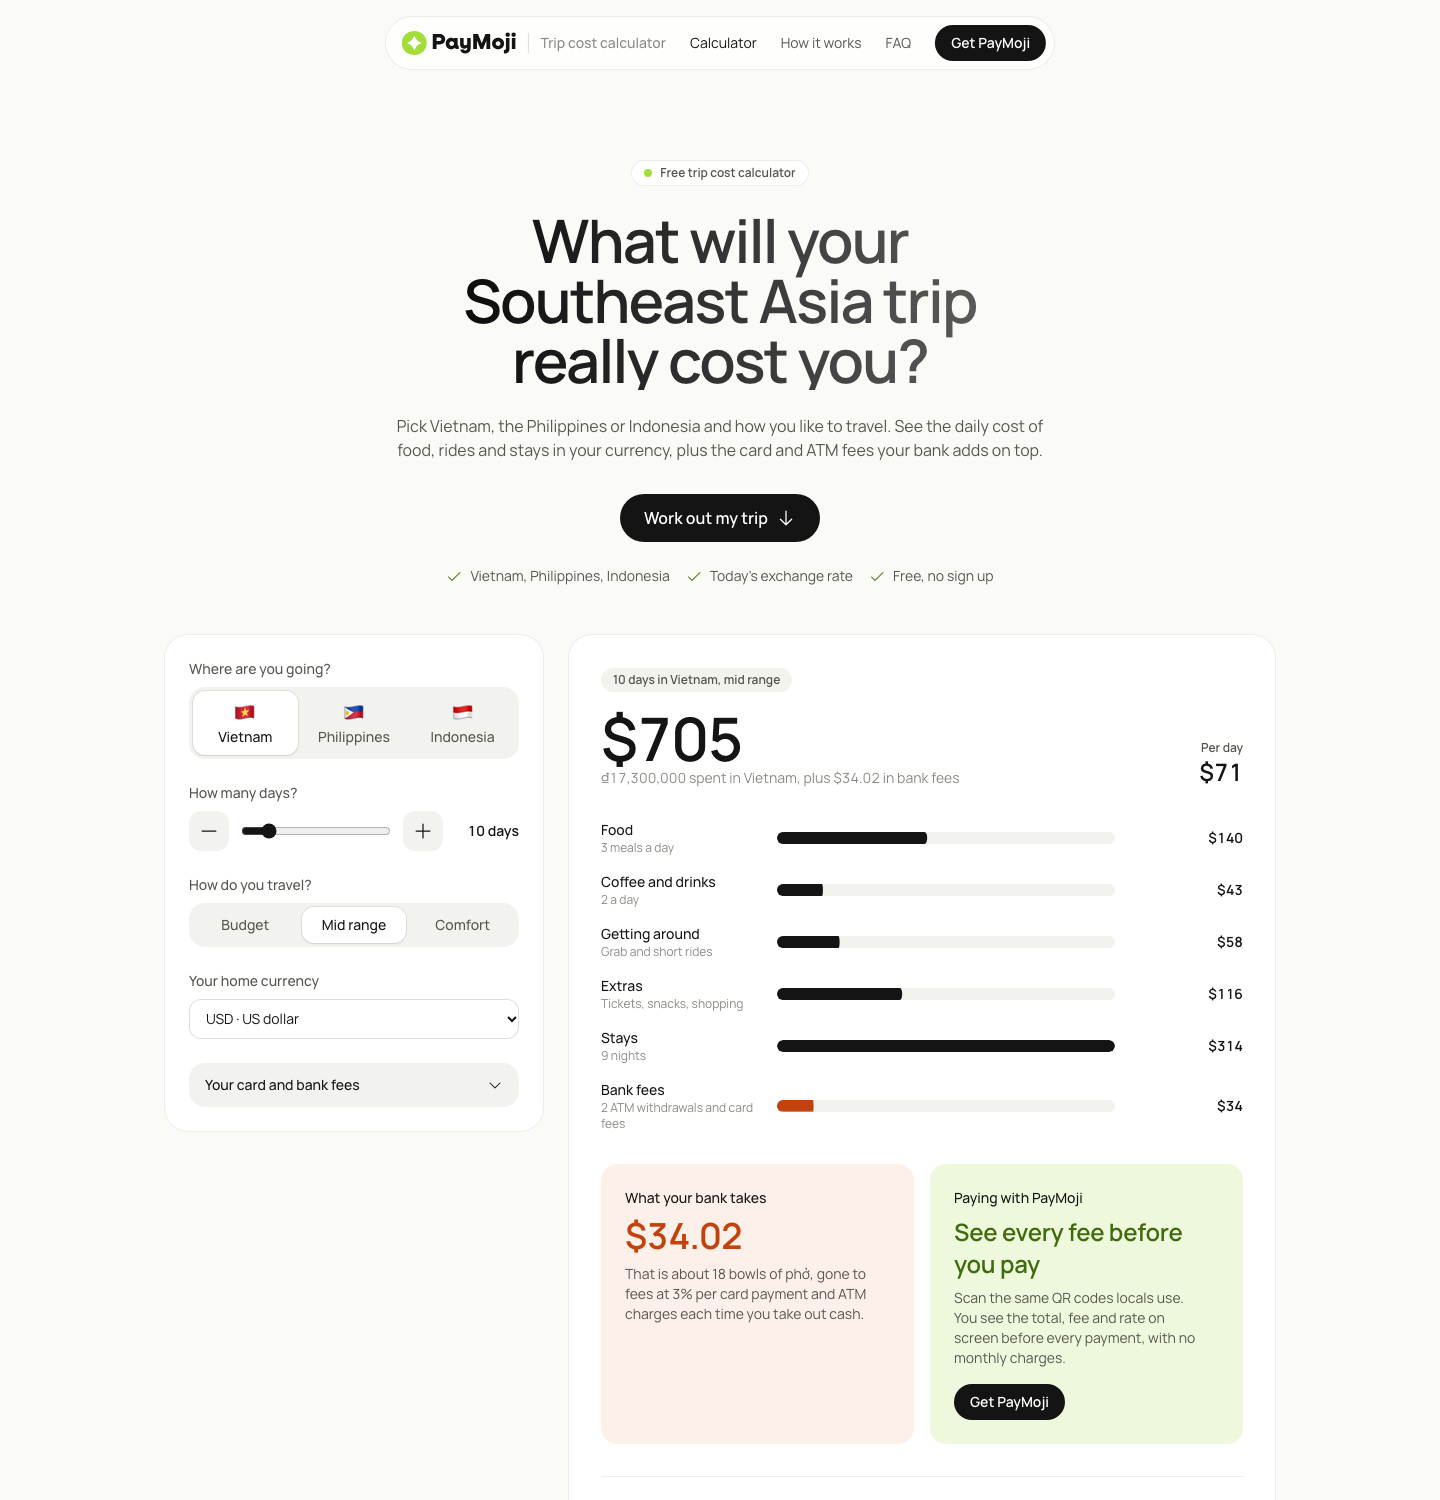
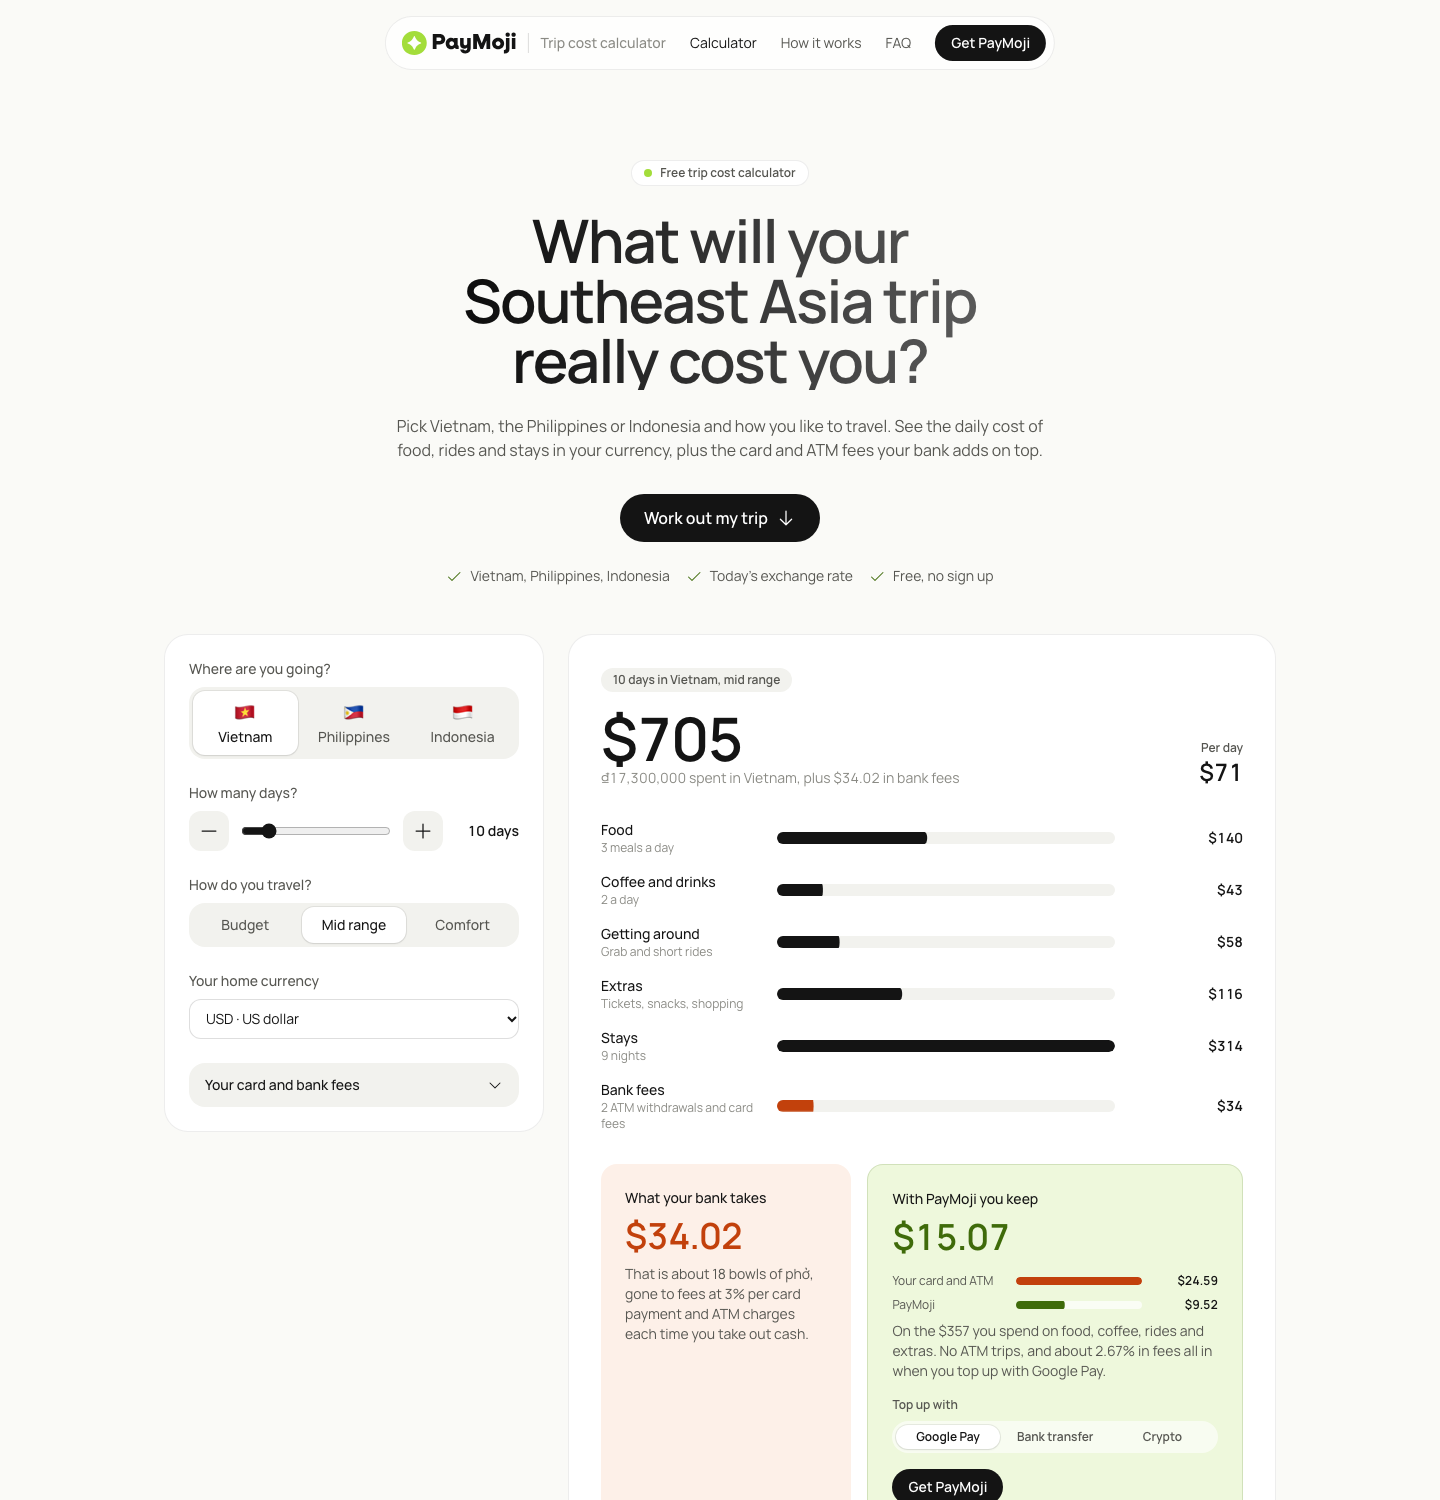
Add real PayMoji fees and the You keep comparison
Fees from the PayMoji team: 0.9% provider fee per payment, top up 1.75% with Google Pay, up to 2% by bank transfer, free with crypto. The result now compares bank fees with PayMoji on the same everyday spending, with a top up method switch and a new FAQ answer.

Changed region(s): [[0.4375, 0.7667, 0.875, 1.0]]

diff --git a/index.html b/index.html
@@ -23,7 +23,7 @@
 <link rel="preconnect" href="https://fonts.gstatic.com" crossorigin>
 <link rel="stylesheet" href="https://fonts.googleapis.com/css2?family=Manrope:wght@400;500;600;700&display=swap">
 <script type="application/ld+json">{"@context": "https://schema.org", "@type": "WebApplication", "name": "PayMoji trip cost calculator", "url": "https://paymoji-trip-cost.netlify.app/", "applicationCategory": "TravelApplication", "operatingSystem": "Any browser", "description": "Free trip cost calculator for Vietnam, the Philippines and Indonesia, including card and ATM fees.", "offers": {"@type": "Offer", "price": "0", "priceCurrency": "USD"}, "publisher": {"@type": "Organization", "name": "PayMoji", "url": "https://www.paymoji.app/"}}</script>
-<script type="application/ld+json">{"@context": "https://schema.org", "@type": "FAQPage", "mainEntity": [{"@type": "Question", "name": "How much does a trip to Vietnam cost per day?", "acceptedAnswer": {"@type": "Answer", "text": "It depends on how you travel. With the prices in this calculator, a budget day comes to about 670,000 VND, a mid range day about 1.8 million VND and a comfort day about 5 million VND, including a place to stay. Pick your days and currency above to see it in your own money."}}, {"@type": "Question", "name": "How much does a trip to the Philippines cost per day?", "acceptedAnswer": {"@type": "Answer", "text": "With the prices in this calculator, a budget day is about 2,600 PHP, a mid range day about 6,400 PHP and a comfort day about 16,200 PHP, including a place to stay. Island hopping tours and flights between islands come on top."}}, {"@type": "Question", "name": "How much does a trip to Bali cost per day?", "acceptedAnswer": {"@type": "Answer", "text": "Choose Indonesia above. With the prices in this calculator, a budget day is about 685,000 IDR, a mid range day about 2 million IDR and a comfort day about 5.5 million IDR, including a place to stay."}}, {"@type": "Question", "name": "What fees does my bank charge when I spend abroad?", "acceptedAnswer": {"@type": "Answer", "text": "Many cards add a foreign transaction fee, often around 3% of every payment. Taking out cash usually costs twice: your own bank's fee for using a foreign ATM, and the local ATM's fee. Some cards charge none of these, so check your bank's fee page and enter your numbers under Your card and bank fees."}}, {"@type": "Question", "name": "How much are ATM fees in Vietnam, the Philippines and Indonesia?", "acceptedAnswer": {"@type": "Answer", "text": "They vary by bank and change often. In the Philippines many ATMs charge foreign cards around 250 PHP per withdrawal. The calculator starts at 50,000 VND in Vietnam and 35,000 IDR in Indonesia, and you can change any of them. The ATM shows its fee on screen before you confirm."}}, {"@type": "Question", "name": "How do people pay in Vietnam, the Philippines and Bali?", "acceptedAnswer": {"@type": "Answer", "text": "Locals pay for a lot of everyday things by scanning a QR code: VietQR in Vietnam, QR Ph in the Philippines and QRIS in Indonesia. Visitors usually cannot use these without a local bank account. PayMoji lets you scan the same codes with money topped up from your own card."}}, {"@type": "Question", "name": "Do I need cash in Southeast Asia?", "acceptedAnswer": {"@type": "Answer", "text": "Some, for small stalls and markets. The more you pay by QR, the less cash you carry and the fewer ATM withdrawals you pay for. Move the cash slider in the calculator to see how much that changes your fees."}}, {"@type": "Question", "name": "Where do the prices come from?", "acceptedAnswer": {"@type": "Answer", "text": "They are estimates of typical prices for each travel style, not live data, so treat the result as a planning number. Exchange rates update every day from a market rate feed."}}, {"@type": "Question", "name": "What is PayMoji?", "acceptedAnswer": {"@type": "Answer", "text": "A travel wallet for Southeast Asia. Top up with your card or Apple Pay, then scan local QR codes to pay in Vietnam, the Philippines and Indonesia. You see the total, fee and rate before every payment, with no monthly charges."}}, {"@type": "Question", "name": "Is this calculator free?", "acceptedAnswer": {"@type": "Answer", "text": "Yes. No sign up and nothing to install. What you enter stays in your browser, and the share link only carries the country, days, travel style and currency."}}]}</script>
+<script type="application/ld+json">{"@context": "https://schema.org", "@type": "FAQPage", "mainEntity": [{"@type": "Question", "name": "How much does a trip to Vietnam cost per day?", "acceptedAnswer": {"@type": "Answer", "text": "It depends on how you travel. With the prices in this calculator, a budget day comes to about 670,000 VND, a mid range day about 1.8 million VND and a comfort day about 5 million VND, including a place to stay. Pick your days and currency above to see it in your own money."}}, {"@type": "Question", "name": "How much does a trip to the Philippines cost per day?", "acceptedAnswer": {"@type": "Answer", "text": "With the prices in this calculator, a budget day is about 2,600 PHP, a mid range day about 6,400 PHP and a comfort day about 16,200 PHP, including a place to stay. Island hopping tours and flights between islands come on top."}}, {"@type": "Question", "name": "How much does a trip to Bali cost per day?", "acceptedAnswer": {"@type": "Answer", "text": "Choose Indonesia above. With the prices in this calculator, a budget day is about 685,000 IDR, a mid range day about 2 million IDR and a comfort day about 5.5 million IDR, including a place to stay."}}, {"@type": "Question", "name": "What fees does my bank charge when I spend abroad?", "acceptedAnswer": {"@type": "Answer", "text": "Many cards add a foreign transaction fee, often around 3% of every payment. Taking out cash usually costs twice: your own bank's fee for using a foreign ATM, and the local ATM's fee. Some cards charge none of these, so check your bank's fee page and enter your numbers under Your card and bank fees."}}, {"@type": "Question", "name": "How much are ATM fees in Vietnam, the Philippines and Indonesia?", "acceptedAnswer": {"@type": "Answer", "text": "They vary by bank and change often. In the Philippines many ATMs charge foreign cards around 250 PHP per withdrawal. The calculator starts at 50,000 VND in Vietnam and 35,000 IDR in Indonesia, and you can change any of them. The ATM shows its fee on screen before you confirm."}}, {"@type": "Question", "name": "How do people pay in Vietnam, the Philippines and Bali?", "acceptedAnswer": {"@type": "Answer", "text": "Locals pay for a lot of everyday things by scanning a QR code: VietQR in Vietnam, QR Ph in the Philippines and QRIS in Indonesia. Visitors usually cannot use these without a local bank account. PayMoji lets you scan the same codes with money topped up from your own card."}}, {"@type": "Question", "name": "Do I need cash in Southeast Asia?", "acceptedAnswer": {"@type": "Answer", "text": "Some, for small stalls and markets. The more you pay by QR, the less cash you carry and the fewer ATM withdrawals you pay for. Move the cash slider in the calculator to see how much that changes your fees."}}, {"@type": "Question", "name": "Where do the prices come from?", "acceptedAnswer": {"@type": "Answer", "text": "They are estimates of typical prices for each travel style, not live data, so treat the result as a planning number. Exchange rates update every day from a market rate feed."}}, {"@type": "Question", "name": "What is PayMoji?", "acceptedAnswer": {"@type": "Answer", "text": "A travel wallet for Southeast Asia. Top up with your card or Apple Pay, then scan local QR codes to pay in Vietnam, the Philippines and Indonesia. You see the total, fee and rate before every payment, with no monthly charges."}}, {"@type": "Question", "name": "What does PayMoji cost?", "acceptedAnswer": {"@type": "Answer", "text": "PayMoji does not charge a fee to pay. The payment provider takes about 0.9% per payment, and topping up costs between nothing and 2% depending on how you add money: free with crypto, 1.75% with Google Pay and about 1 to 2% by bank transfer. There are no ATM fees because you pay by QR, and you see the total before every payment."}}, {"@type": "Question", "name": "Is this calculator free?", "acceptedAnswer": {"@type": "Answer", "text": "Yes. No sign up and nothing to install. What you enter stays in your browser, and the share link only carries the country, days, travel style and currency."}}]}</script>
 
 <style>
 :root{
@@ -156,12 +156,21 @@ details.adv[open] summary svg{transform:rotate(180deg)}
 .row.fee .bar i{background:var(--red)}
 .row .v{text-align:right}
 .row small{display:block;color:var(--ink3)}
-.split{display:grid;grid-template-columns:1fr 1fr;gap:16px}
+.split{display:grid;grid-template-columns:1fr 1.5fr;gap:16px}
 .cut{padding:24px;border-radius:16px;background:var(--red-soft);display:flex;flex-direction:column;gap:8px}
 .cut .heading-3{color:var(--red)}
 .pm{padding:24px;border-radius:16px;background:var(--lime-soft);display:flex;flex-direction:column;gap:8px}
 .pm .heading-3{color:var(--lime-ink)}
 .pm .btn{align-self:flex-start;margin-top:8px}
+.pm{border:1px solid rgba(63,107,10,.16)}
+.vs{display:flex;flex-direction:column;gap:8px;margin-top:8px}
+.vs>div{display:grid;grid-template-columns:112px 1fr 64px;gap:12px;align-items:center}
+.vs span{color:var(--ink2)}
+.vs b{height:8px;border-radius:9999px;background:rgba(255,255,255,.7);overflow:hidden;display:block}
+.vs i{display:block;height:100%;border-radius:9999px;transform-origin:left;transition:transform .5s var(--ease)}
+#vsBank{background:var(--red)}#vsPm{background:var(--lime-ink)}
+.vs em{font-style:normal;text-align:right}
+.seg.mini{background:rgba(255,255,255,.6)}.seg.mini button{padding:4px 8px;font-size:12px;line-height:16px;font-weight:600}
 .foot-actions{display:flex;justify-content:space-between;gap:16px;flex-wrap:wrap;align-items:center;padding-top:24px;border-top:1px solid var(--line)}
 .rate{color:var(--ink3)}
 .sk{border-radius:8px;background:linear-gradient(90deg,var(--sunk),#ECECE7,var(--sunk));background-size:200% 100%;animation:sk 1.2s var(--ease) infinite;color:transparent!important}
@@ -322,9 +331,14 @@ footer a:hover{color:var(--ink)}
           <p class="body-6 muted" id="cutWhy">&nbsp;</p>
         </div>
         <div class="pm">
-          <p class="title-4">Paying with PayMoji</p>
-          <p class="heading-5" id="pmVal" style="color:var(--lime-ink)">See every fee before you pay</p>
-          <p class="body-6 muted" id="pmWhy">Scan the same QR codes locals use. You see the total, fee and rate on screen before every payment, with no monthly charges.</p>
+          <p class="title-4">With PayMoji you keep</p>
+          <p class="heading-3 num" id="pmVal">&nbsp;</p>
+          <div class="vs" aria-hidden="true">
+            <div><span class="caption-5">Your card and ATM</span><b><i id="vsBank"></i></b><em class="caption-3 num" id="vsBankV"></em></div>
+            <div><span class="caption-5">PayMoji</span><b><i id="vsPm"></i></b><em class="caption-3 num" id="vsPmV"></em></div>
+          </div>
+          <p class="body-6 muted" id="pmWhy">&nbsp;</p>
+          <div class="field" style="margin-top:8px"><span class="caption-3 muted" id="lt">Top up with</span><div class="seg mini" role="group" aria-labelledby="lt" id="topup"></div></div>
           <a class="btn pri button-sm" style="padding:8px 16px" href="https://www.paymoji.app/?utm_source=trip_cost_calculator&utm_medium=free_tool" target="_blank" rel="noopener">Get PayMoji</a>
         </div>
       </div>
@@ -364,6 +378,7 @@ footer a:hover{color:var(--ink)}
         <details><summary class="title-2">Do I need cash in Southeast Asia?<i><svg viewBox="0 0 256 256" fill="currentColor"><path d="M224 128a8 8 0 0 1-8 8h-80v80a8 8 0 0 1-16 0v-80H40a8 8 0 0 1 0-16h80V40a8 8 0 0 1 16 0v80h80a8 8 0 0 1 8 8z"/></svg></i></summary><p class="body-3 muted">Some, for small stalls and markets. The more you pay by QR, the less cash you carry and the fewer ATM withdrawals you pay for. Move the cash slider in the calculator to see how much that changes your fees.</p></details>
         <details><summary class="title-2">Where do the prices come from?<i><svg viewBox="0 0 256 256" fill="currentColor"><path d="M224 128a8 8 0 0 1-8 8h-80v80a8 8 0 0 1-16 0v-80H40a8 8 0 0 1 0-16h80V40a8 8 0 0 1 16 0v80h80a8 8 0 0 1 8 8z"/></svg></i></summary><p class="body-3 muted">They are estimates of typical prices for each travel style, not live data, so treat the result as a planning number. Exchange rates update every day from a market rate feed.</p></details>
         <details><summary class="title-2">What is PayMoji?<i><svg viewBox="0 0 256 256" fill="currentColor"><path d="M224 128a8 8 0 0 1-8 8h-80v80a8 8 0 0 1-16 0v-80H40a8 8 0 0 1 0-16h80V40a8 8 0 0 1 16 0v80h80a8 8 0 0 1 8 8z"/></svg></i></summary><p class="body-3 muted">A travel wallet for Southeast Asia. Top up with your card or Apple Pay, then scan local QR codes to pay in Vietnam, the Philippines and Indonesia. You see the total, fee and rate before every payment, with no monthly charges.</p></details>
+        <details><summary class="title-2">What does PayMoji cost?<i><svg viewBox="0 0 256 256" fill="currentColor"><path d="M224 128a8 8 0 0 1-8 8h-80v80a8 8 0 0 1-16 0v-80H40a8 8 0 0 1 0-16h80V40a8 8 0 0 1 16 0v80h80a8 8 0 0 1 8 8z"/></svg></i></summary><p class="body-3 muted">PayMoji does not charge a fee to pay. The payment provider takes about 0.9% per payment, and topping up costs between nothing and 2% depending on how you add money: free with crypto, 1.75% with Google Pay and about 1 to 2% by bank transfer. There are no ATM fees because you pay by QR, and you see the total before every payment.</p></details>
         <details><summary class="title-2">Is this calculator free?<i><svg viewBox="0 0 256 256" fill="currentColor"><path d="M224 128a8 8 0 0 1-8 8h-80v80a8 8 0 0 1-16 0v-80H40a8 8 0 0 1 0-16h80V40a8 8 0 0 1 16 0v80h80a8 8 0 0 1 8 8z"/></svg></i></summary><p class="body-3 muted">Yes. No sign up and nothing to install. What you enter stays in your browser, and the share link only carries the country, days, travel style and currency.</p></details>
       </div>
     </div>
@@ -388,11 +403,14 @@ footer a:hover{color:var(--ink)}
 
 <script>
 /* ---------- settings ----------
-   PAYMOJI: fill these in once the PayMoji team confirms them. While topup_pct and
-   payment_pct are null, the PayMoji box shows the "see it before you pay" message
-   instead of a number. fx_markup_pct is the gap between PayMoji's rate and the
-   market rate (0 if they use the market rate). */
-const PAYMOJI = { topup_pct: null, payment_pct: null, fx_markup_pct: 0 };
+   PayMoji fees, from the PayMoji team (Nov 2026). PayMoji charges nothing per payment;
+   the payment provider takes payment_pct. Top up cost depends on the method; bank transfer
+   is 1 to 2%, so the top of that range is used to stay on the safe side. fx_markup_pct is
+   any gap between PayMoji's rate and the market rate (0 = market rate). */
+const PAYMOJI = {
+  topups: { gpay: { label: "Google Pay", pct: 1.75 }, bank: { label: "Bank transfer", pct: 2 }, crypto: { label: "Crypto", pct: 0 } },
+  payment_pct: 0.9, fx_markup_pct: 0,
+};
 const APP_URL = "https://www.paymoji.app/?utm_source=trip_cost_calculator&utm_medium=free_tool";
 
 /* Daily prices in local currency. Estimates for each travel style; edit freely.
@@ -420,7 +438,7 @@ let RATES = {"USD": 1, "EUR": 0.893426, "GBP": 0.745418, "AUD": 1.434205, "CAD":
 let RATE_NOTE = "Rates from 4 Nov 2026";
 
 const $ = id => document.getElementById(id);
-const S = { c: "vn", d: 10, s: "mid", h: "USD", fx: 3, cash: 60, hatm: 5, latm: null };
+const S = { c: "vn", d: 10, s: "mid", h: "USD", fx: 3, cash: 60, hatm: 5, latm: null, t: "gpay" };
 
 function fmt(v, cur, opts = {}) {
   const zero = ["VND","IDR","KRW","JPY"].includes(cur);
@@ -447,6 +465,8 @@ function writeURL() {
 function buildControls() {
   $("country").innerHTML = Object.entries(COUNTRIES).map(([k, c]) => `<button type="button" class="title-4" data-c="${k}" aria-pressed="false"><span class="flag" aria-hidden="true">${c.flag}</span>${c.name}</button>`).join("");
   $("style").innerHTML = Object.entries(STYLES).map(([k, n]) => `<button type="button" class="title-4" data-s="${k}" aria-pressed="false">${n}</button>`).join("");
+  $("topup").innerHTML = Object.entries(PAYMOJI.topups).map(([k, t]) => `<button type="button" data-t="${k}" aria-pressed="false">${t.label}</button>`).join("");
+  $("topup").addEventListener("click", e => { const b = e.target.closest("[data-t]"); if (!b) return; S.t = b.dataset.t; update(); });
   $("home").innerHTML = Object.entries(HOMES).map(([k, n]) => `<option value="${k}">${k} · ${n}</option>`).join("");
   $("country").addEventListener("click", e => { const b = e.target.closest("[data-c]"); if (!b) return; S.c = b.dataset.c; S.latm = null; $("latm").value = ""; update(); });
   $("style").addEventListener("click", e => { const b = e.target.closest("[data-s]"); if (!b) return; S.s = b.dataset.s; update(); });
@@ -489,12 +509,11 @@ function calc() {
   const homeAtm = withdrawals * S.hatm;                             // in home currency
   const feesHome = conv(fxFee + atmLocal, C.cur, S.h) + homeAtm;
   const tripLocal = ground + stays;
-  let pm = null;
-  if (PAYMOJI.topup_pct !== null && PAYMOJI.payment_pct !== null) {
-    const pct = (1 + PAYMOJI.topup_pct / 100) * (1 + PAYMOJI.payment_pct / 100) * (1 + (PAYMOJI.fx_markup_pct || 0) / 100) - 1;
-    pm = conv(ground * pct, C.cur, S.h);                            // PayMoji covers the QR payments on the ground
-  }
-  return { C, lines, tripLocal, tripHome: conv(tripLocal, C.cur, S.h), feesHome, withdrawals, fxFee, atmLocal, homeAtm, pm, ground };
+  /* like for like: bank fees on what you spend on the ground, against PayMoji on the same spending */
+  const bankGround = conv(ground * S.fx / 100 + atmLocal, C.cur, S.h) + homeAtm;
+  const pmPct = ((1 + PAYMOJI.topups[S.t].pct / 100) * (1 + PAYMOJI.payment_pct / 100) * (1 + PAYMOJI.fx_markup_pct / 100) - 1) * 100;
+  const pm = conv(ground * pmPct / 100, C.cur, S.h);
+  return { C, lines, tripLocal, tripHome: conv(tripLocal, C.cur, S.h), feesHome, withdrawals, fxFee, atmLocal, homeAtm, pm, pmPct, bankGround, ground };
 }
 
 let first = true;
@@ -517,10 +536,18 @@ function update() {
   $("cut").textContent = fmt(r.feesHome, S.h);
   const items = Math.round(conv(r.feesHome, S.h, C.cur) / C.itemPrice);
   $("cutWhy").textContent = items >= 1 ? `That is about ${items} ${items === 1 ? C.item[0] : C.item[1]}, gone to fees at ${S.fx}% per card payment${r.withdrawals ? " and ATM charges each time you take out cash" : ""}.` : `Card fees at ${S.fx}% on what you spend abroad.`;
-  if (r.pm !== null) {
-    $("pmVal").textContent = fmt(r.pm, S.h); $("pmVal").className = "heading-3 num";
-    const keep = r.feesHome - r.pm;
-    $("pmWhy").textContent = keep > 0 ? `Fees on the ${fmt(conv(r.ground, C.cur, S.h), S.h, { cents: false })} you spend on food, coffee, rides and extras. You keep about ${fmt(keep, S.h)} more for the trip.` : `Fees on what you spend on food, coffee, rides and extras, shown before every payment.`;
+  for (const b of $("topup").children) b.setAttribute("aria-pressed", b.dataset.t === S.t);
+  const keep = r.bankGround - r.pm, top = Math.max(r.bankGround, r.pm, 0.01);
+  $("vsBank").style.transform = `scaleX(${(r.bankGround / top).toFixed(4)})`; $("vsBankV").textContent = fmt(r.bankGround, S.h);
+  $("vsPm").style.transform = `scaleX(${(r.pm / top).toFixed(4)})`; $("vsPmV").textContent = fmt(r.pm, S.h);
+  const groundH = fmt(conv(r.ground, C.cur, S.h), S.h, { cents: false });
+  const pctTxt = r.pmPct.toLocaleString(undefined, { maximumFractionDigits: 2 }) + "%";
+  if (keep > 0.005) {
+    $("pmVal").textContent = fmt(keep, S.h);
+    $("pmWhy").textContent = `On the ${groundH} you spend on food, coffee, rides and extras. No ATM trips, and about ${pctTxt} in fees all in when you top up with ${PAYMOJI.topups[S.t].label}.`;
+  } else {
+    $("pmVal").textContent = pctTxt + " all in";
+    $("pmWhy").textContent = `Your card is already cheap, nice. With PayMoji you still skip the ATM and scan the QR codes locals use, seeing the total before every payment.`;
   }
   $("rate").textContent = `1 ${S.h} = ${conv(1, S.h, C.cur).toLocaleString(undefined, { maximumFractionDigits: C.cur === "PHP" ? 2 : 0 })} ${C.cur}. ${RATE_NOTE}. Prices are estimates.`;
   writeURL();
